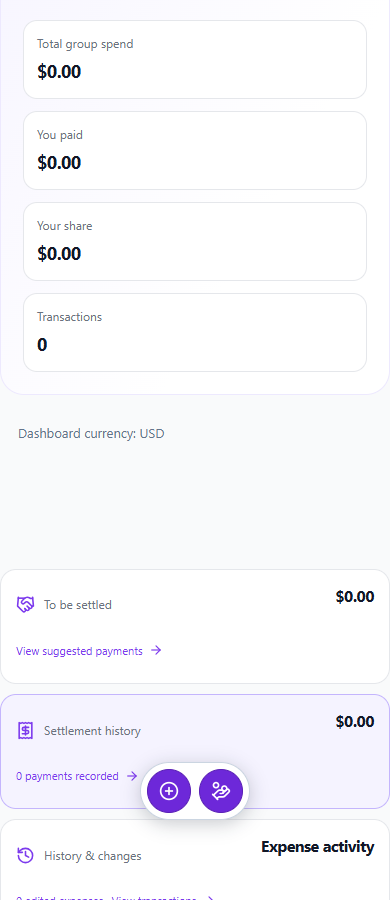
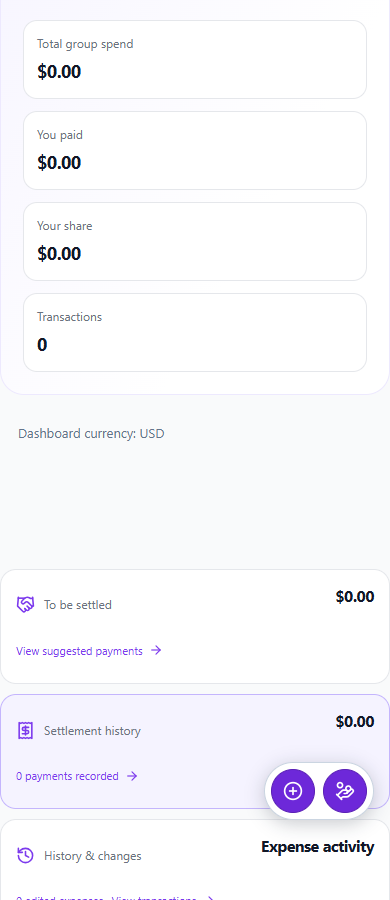
fix(expenses): align floating actions right and darken personal button

Changed region(s): [[0.6769, 0.84, 0.9538, 0.9333], [0.3692, 0.84, 0.6462, 0.9333]]

diff --git a/apps/web/src/features/expenses/css/ExpenseManager.css b/apps/web/src/features/expenses/css/ExpenseManager.css
@@ -1456,10 +1456,9 @@ button.btn-icon.btn-delete:active {
   .expense-transaction-fields .spinning {animation:none;}
 }
 
-/* Center group actions above the bottom navigation with a clear, dark surface. */
-.expense-manager .expense-floating-actions { left: 50%; right: auto; transform: translateX(-50%); display: flex; flex-direction: row; gap: 8px; padding: 6px; border-radius: 30px; background: #fff; border: 1px solid #cbd5e1; box-shadow: 0 4px 18px rgb(15 23 42 / 22%); }
-.expense-manager .expense-floating-actions .btn-add-transaction, .expense-manager .btn-add-transaction.expense-floating-add { width: 44px; height: 44px; min-width: 44px; padding: 0; display: inline-flex; align-items: center; justify-content: center; border-radius: 50%; color: #6d28d9; background: rgb(245 243 255 / 88%); border: 1px solid #ddd6fe; box-shadow: none; }
-.expense-manager .expense-floating-actions .btn-add-transaction { color: #fff; background: #6d28d9; border-color: #5b21b6; }
+/* Right-aligned quick actions share a clear, dark surface in both expense modes. */
+.expense-manager .expense-floating-actions { display: flex; flex-direction: row; gap: 8px; padding: 6px; border-radius: 30px; background: #fff; border: 1px solid #cbd5e1; box-shadow: 0 4px 18px rgb(15 23 42 / 22%); }
+.expense-manager .expense-floating-actions .btn-add-transaction, .expense-manager .btn-add-transaction.expense-floating-add { width: 44px; height: 44px; min-width: 44px; padding: 0; display: inline-flex; align-items: center; justify-content: center; border-radius: 50%; color: #fff; background: #6d28d9; border: 1px solid #5b21b6; box-shadow: none; }
 .expense-manager .expense-floating-actions .btn-add-transaction:hover, .expense-manager .btn-add-transaction.expense-floating-add:hover { background: #5b21b6; color: #fff; }
 .expense-manager .expense-floating-actions .btn-add-transaction:focus-visible, .expense-manager .btn-add-transaction.expense-floating-add:focus-visible { outline: 3px solid #a78bfa; outline-offset: 3px; }
 .expense-manager .expense-floating-actions .sr-only, .expense-manager .expense-floating-add .sr-only { position: absolute; width: 1px; height: 1px; margin: -1px; padding: 0; overflow: hidden; clip: rect(0, 0, 0, 0); white-space: nowrap; }
